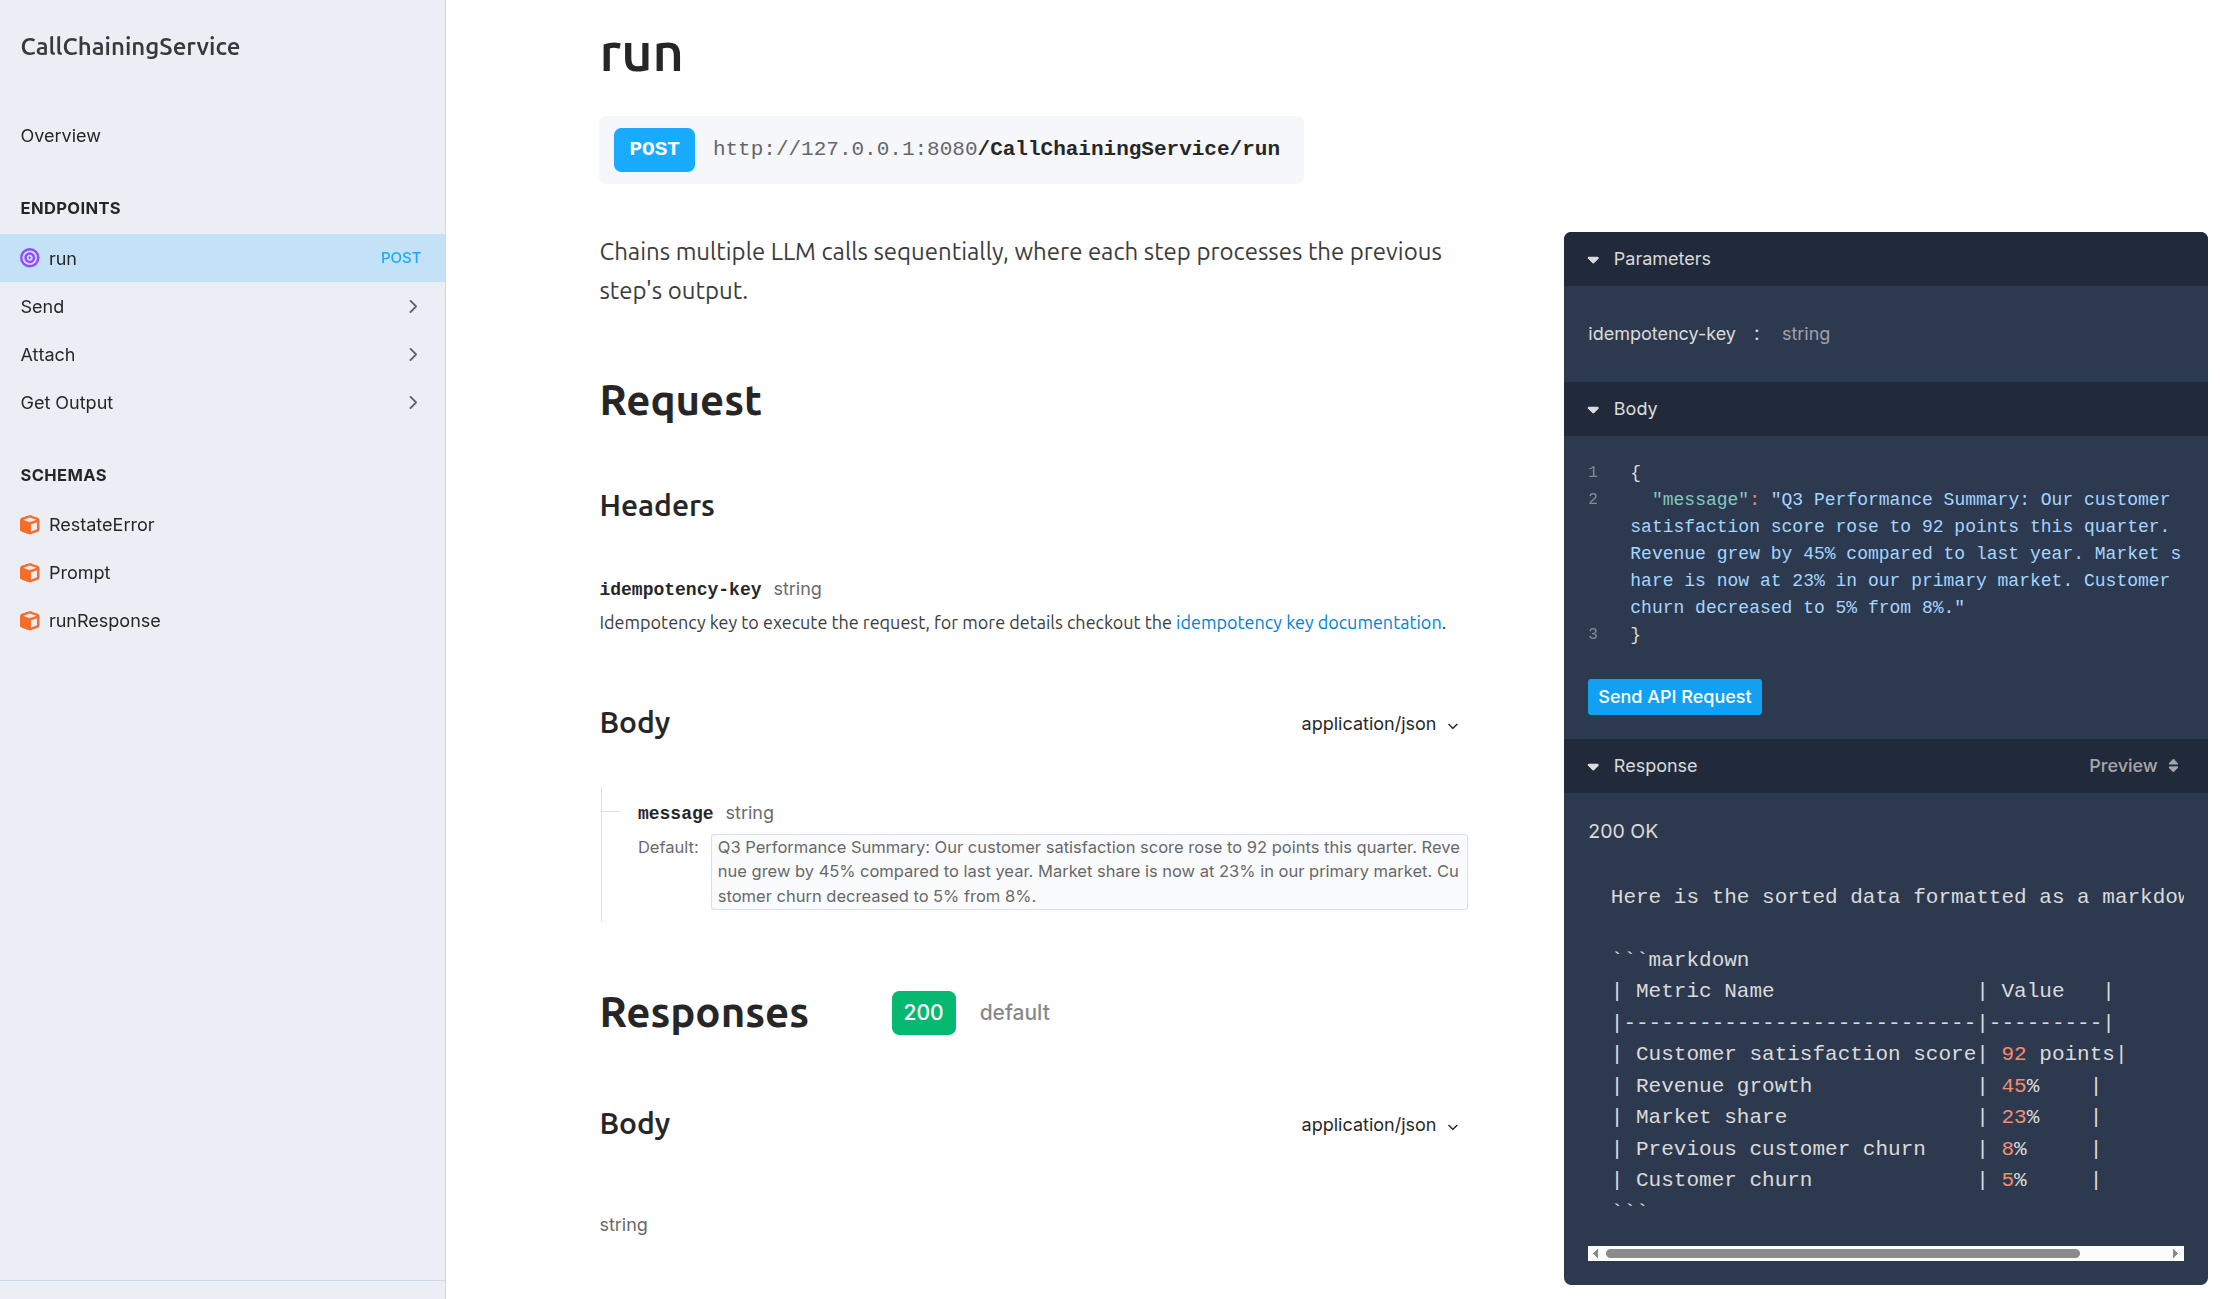
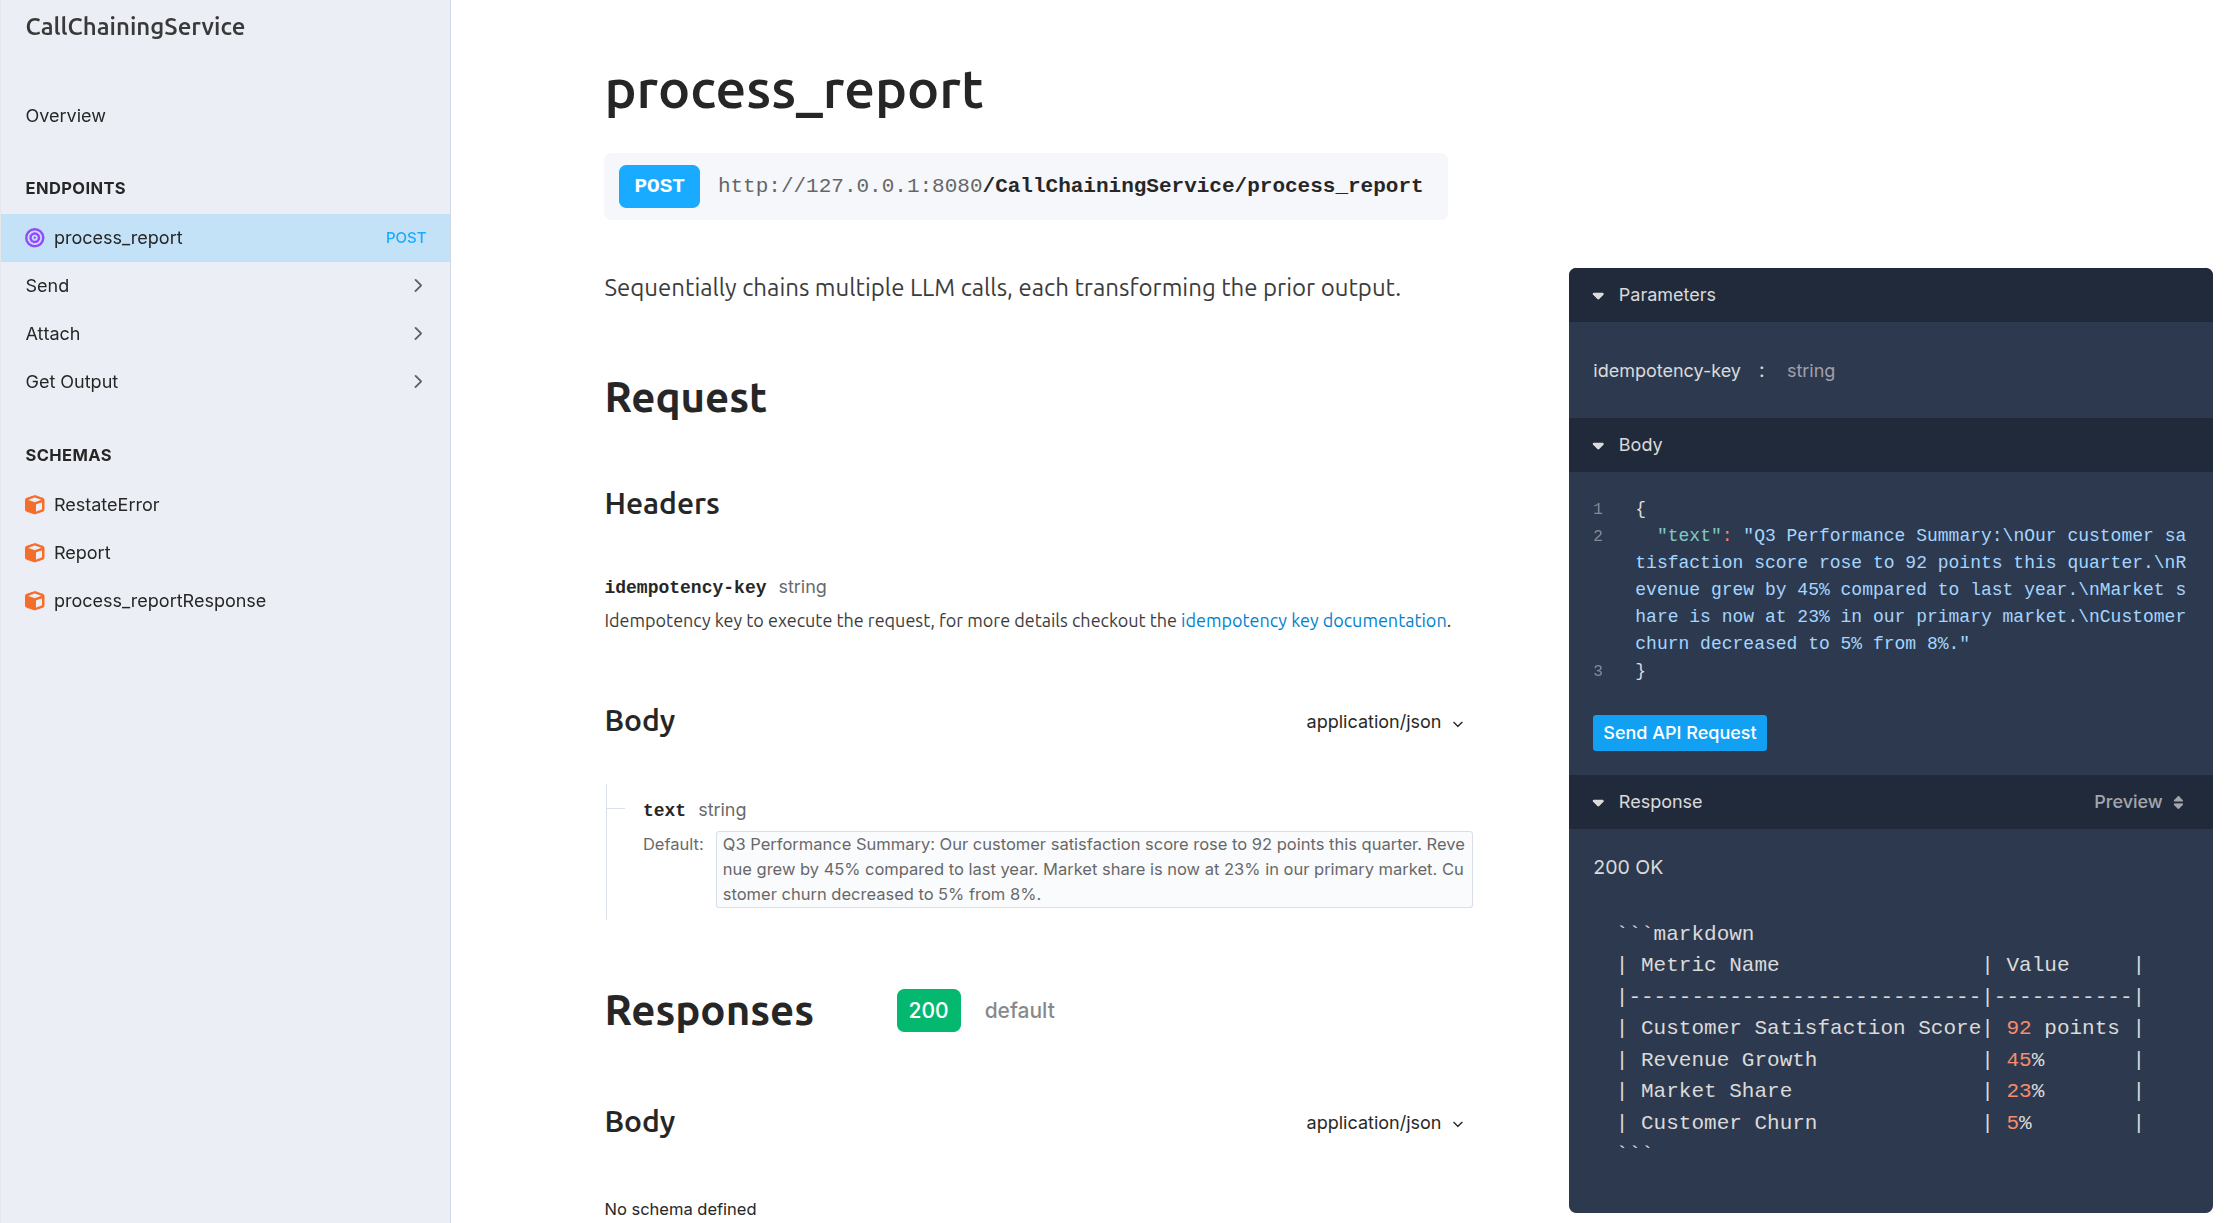
update patterns

diff --git a/typescript-patterns/src/evaluator-optimizer.ts b/typescript-patterns/src/evaluator-optimizer.ts
@@ -1,18 +1,3 @@
-import * as restate from "@restatedev/restate-sdk";
-import { Context } from "@restatedev/restate-sdk";
-import llmCall from "./utils/llm";
-import { printEvaluation, zodPrompt } from "./utils/utils";
-const maxIterations = 5;
-
-const examplePrompt =
-  "Write a Python function that finds the longest palindromic substring in a string. " +
-  "It should be efficient and handle edge cases.";
-
-const evaluationPrompt =
-  `Evaluate this solution on correctness, efficiency, and readability. Reply with: ` +
-  `'PASS: [brief reason]' if the solution is correct and very well-implemented ` +
-  `'IMPROVE: [specific issues to fix]' if it needs work. `;
-
 /**
  * Evaluator-Optimizer Pattern
  *
@@ -21,6 +6,21 @@ const evaluationPrompt =
  *
  * Generate � Evaluate � [Pass/Improve] � Final Result
  */
+import * as restate from "@restatedev/restate-sdk";
+import { Context } from "@restatedev/restate-sdk";
+import llmCall from "./utils/llm";
+import { printEvaluation, zodPrompt } from "./utils/utils";
+
+const maxIterations = 5;
+const examplePrompt =
+  "Write a Python function that finds the longest palindromic substring in a string. " +
+  "It should be efficient and handle edge cases.";
+const evaluationPrompt =
+  `Evaluate this solution on correctness, efficiency, and readability. Reply with: ` +
+  `'PASS: [brief reason]' if the solution is correct and very well-implemented ` +
+  `'IMPROVE: [specific issues to fix]' if it needs work. `;
+
+
 async function improveUntilGood(
   ctx: Context,
   { message }: { message: string },

diff --git a/typescript-patterns/src/human-in-the-loop.ts b/typescript-patterns/src/human-in-the-loop.ts
@@ -1,3 +1,9 @@
+/**
+ * Human-in-the-Loop Pattern
+ *
+ * Implement resilient human approval steps that suspend execution until feedback is received.
+ * Durable promises survive crashes and can be recovered across process restarts.
+ */
 import * as restate from "@restatedev/restate-sdk";
 import { Context } from "@restatedev/restate-sdk";
 import { notifyModerator, zodPrompt } from "./utils/utils";
@@ -7,12 +13,6 @@ import z from "zod";
 
 const examplePrompt = "Write a poem about Durable Execution";
 
-/**
- * Human-in-the-Loop Pattern
- *
- * Implement resilient human approval steps that suspend execution until feedback is received.
- * Durable promises survive crashes and can be recovered across process restarts.
- */
 async function moderate(ctx: Context, { message }: { message: string }) {
   const result = await ctx.run(
     "LLM call",
@@ -44,6 +44,8 @@ async function moderate(ctx: Context, { message }: { message: string }) {
     );
 
     // Suspend until moderator resolves the approval
+    // Check the service logs to see how to resolve it over HTTP, e.g.:
+    // curl http://localhost:8080/restate/awakeables/sign_.../resolve --json '"approved"'
     return await approval.promise;
   }
 

diff --git a/typescript-patterns/src/parallel-agents.ts b/typescript-patterns/src/parallel-agents.ts
@@ -1,3 +1,13 @@
+/**
+ * Parallel Agent Processing
+ *
+ * Process multiple inputs simultaneously with specialized agents.
+ * If any task fails, Restate retries only the failed tasks while preserving completed results.
+ *
+ * Task A ↘
+ * Task B → [Wait on Results] � Results A, B, C
+ * Task C ↗
+ */
 import * as restate from "@restatedev/restate-sdk";
 import { Context, RestatePromise } from "@restatedev/restate-sdk";
 import llmCall from "./utils/llm";
@@ -9,16 +19,7 @@ const examplePrompt =
   "The team worked incredibly hard to deliver these outcomes despite supply chain challenges. " +
   "Our market share increased to 23%, and we're well-positioned for continued growth in Q4.";
 
-/**
- * Parallel Agent Processing
- *
- * Process multiple inputs simultaneously with specialized agents.
- * If any task fails, Restate retries only the failed tasks while preserving completed results.
- *
- * Task A ↘
- * Task B → [Wait on Results] � Results A, B, C
- * Task C ↗
- */
+
 async function analyzeText(
   ctx: Context,
   { message }: { message: string },

diff --git a/typescript-patterns/src/chaining.ts b/typescript-patterns/src/chaining.ts
@@ -1,3 +1,11 @@
+/**
+ * LLM Prompt Chaining
+ *
+ * Build fault-tolerant processing pipelines where each step transforms the previous step's output.
+ * If any step fails, Restate automatically resumes from that point.
+ *
+ * Input → Analysis → Extraction → Summary → Result
+ */
 import * as restate from "@restatedev/restate-sdk";
 import { Context } from "@restatedev/restate-sdk";
 import llmCall from "./utils/llm";
@@ -10,14 +18,7 @@ const examplePrompt = `Q3 Performance Summary:
     Market share is now at 23% in our primary market.
     Customer churn decreased to 5% from 8%.`;
 
-/**
- * LLM Prompt Chaining
- *
- * Build fault-tolerant processing pipelines where each step transforms the previous step's output.
- * If any step fails, Restate automatically resumes from that point.
- *
- * Input → Analysis → Extraction → Summary → Result
- */
+
 async function processReport(ctx: Context, report: { message: string }) {
   // Step 1: Extract metrics
   const extract = await ctx.run(

diff --git a/typescript-patterns/src/chat.ts b/typescript-patterns/src/chat.ts
@@ -1,3 +1,9 @@
+/**
+ * Long-lived, Stateful Chat Sessions
+ *
+ * Maintains conversation state across multiple requests using Restate's persistent memory.
+ * Sessions survive failures and can be resumed at any time.
+ */
 import * as restate from "@restatedev/restate-sdk";
 import { ObjectContext } from "@restatedev/restate-sdk";
 import llmCall from "./utils/llm";
@@ -6,12 +12,7 @@ import { ModelMessage } from "@ai-sdk/provider-utils";
 
 const examplePrompt = "Write a poem about Durable Execution";
 
-/**
- * Long-lived, Stateful Chat Sessions
- *
- * Maintains conversation state across multiple requests using Restate's persistent memory.
- * Sessions survive failures and can be resumed at any time.
- */
+
 async function onMessage(ctx: ObjectContext, { message }: { message: string }) {
   const messages = (await ctx.get<Array<ModelMessage>>("memory")) ?? [];
   messages.push({ role: "user", content: message });

diff --git a/python-patterns/app/human_in_the_loop.py b/python-patterns/app/human_in_the_loop.py
@@ -41,6 +41,8 @@ async def moderate(ctx: restate.Context, content: Content) -> str | None:
         )
 
         # Suspend until moderator resolves the approval
+        # Check the service logs to see how to resolve it over HTTP, e.g.:
+        # curl http://localhost:8080/restate/awakeables/sign_.../resolve --json '"approved"'
         return await approval_promise
 
     return result.content

diff --git a/python-patterns/app/chaining.py b/python-patterns/app/chaining.py
@@ -61,4 +61,4 @@ async def process_report(ctx: restate.Context, report: Report) -> str | None:
         ),
     )
 
-    return table
+    return table.content

diff --git a/python-patterns/README.md b/python-patterns/README.md
@@ -52,7 +52,7 @@ The state can be queried from the outside. Stateful sessions are long-lived and 
 
 Build fault-tolerant processing pipelines where each step transforms the previous step's output.
 
-In the UI (`http://localhost:9070`), click on the `run` handler of the `CallChainingService` to open the playground and send a default request:
+In the UI (`http://localhost:9070`), click on the `process_report` handler of the `CallChainingService` to open the playground and send a default request:
 <img src="https://raw.githubusercontent.com/restatedev/ai-examples/refs/heads/main/doc/img/patterns/chaining_playground.png" alt="Chaining LLM calls - UI"/>
 
 You see in the Invocations Tab of the UI how the LLM is called multiple times, and how the results are refined step by step:
